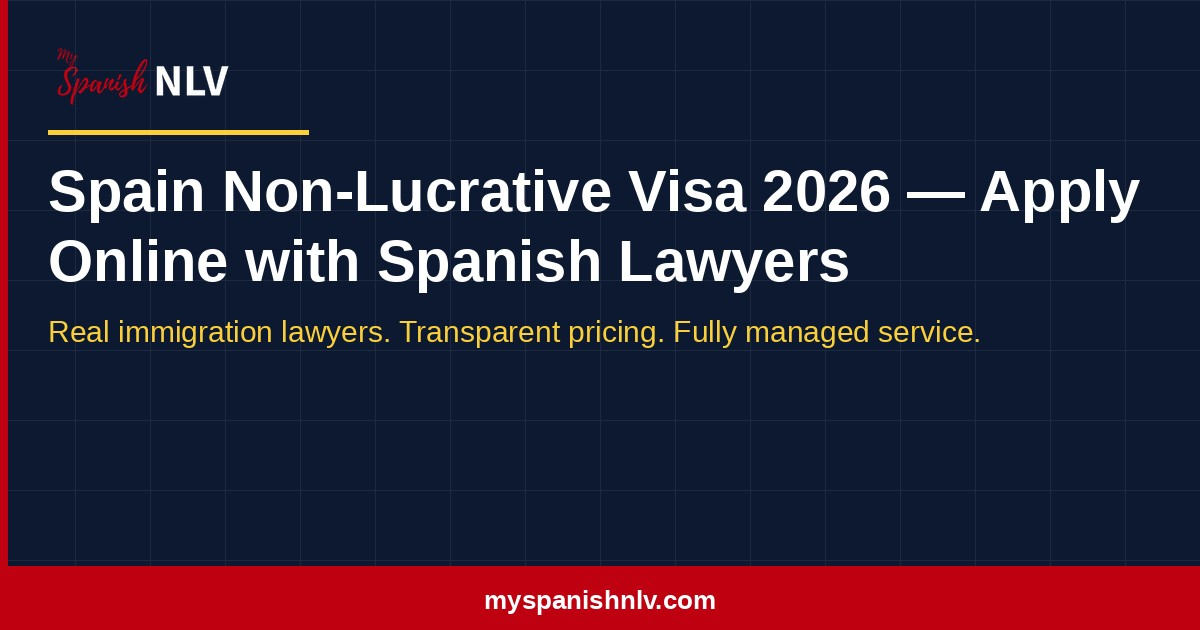
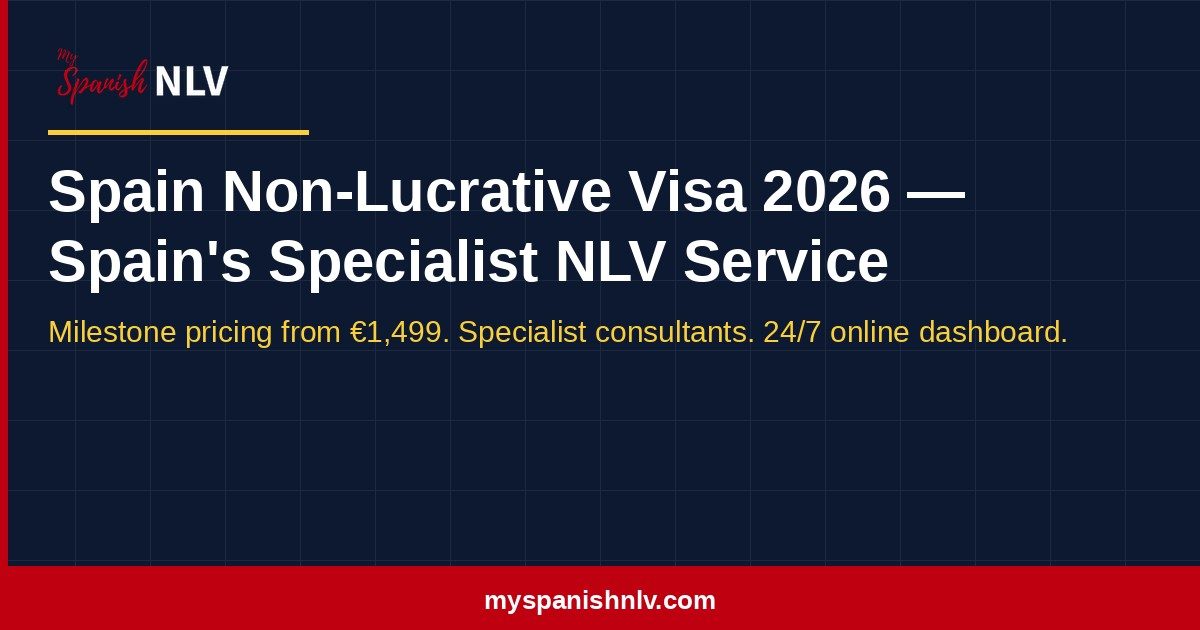
Remove 'Spanish lawyers' claims; fix pricing from €400 to €1499; update OG home image

Changed region(s): [[0.0308, 0.3619, 0.74, 0.4524], [0.0308, 0.5127, 0.8942, 0.573], [0.8017, 0.2714, 0.9558, 0.3619]]

diff --git a/index.html b/index.html
@@ -5,8 +5,8 @@
   <meta name="viewport" content="width=device-width, initial-scale=1.0" />
 
   <!-- PRIMARY META -->
-  <title>Spain Non-Lucrative Visa 2026 — Apply Online with Spanish Lawyers | My Spanish NLV</title>
-  <meta name="description" content="Apply for Spain's Non-Lucrative Visa — the visa for living in Spain without working. For retirees, families relocating on property equity, sabbaticals, and passive-income households. Spanish immigration lawyers, 24/7 online dashboard, staged pricing from €400." />
+  <title>Spain Non-Lucrative Visa 2026 — Spain's Specialist NLV Service | My Spanish NLV</title>
+  <meta name="description" content="Apply for Spain's Non-Lucrative Visa — the visa for living in Spain without working. For retirees, families relocating on property equity, sabbaticals, and passive-income households. NLV specialists, 24/7 online dashboard, milestone pricing from €1,499." />
   <meta name="keywords" content="non lucrative visa spain, nlv spain, spain retirement visa, spain residence visa, spain visa for retirees, spain non lucrative visa requirements, apply for non lucrative visa spain, non lucrative visa renewal" />
   <meta name="author" content="My Spanish NLV / Platinum Legal Spain" />
   <meta name="robots" content="index, follow, max-image-preview:large, max-snippet:-1" />
@@ -20,8 +20,8 @@
   <meta property="og:type" content="website" />
   <meta property="og:site_name" content="My Spanish NLV" />
   <meta property="og:url" content="https://myspanishnlv.com/" />
-  <meta property="og:title" content="Spain Non-Lucrative Visa 2026 — Apply Online with Spanish Lawyers" />
-  <meta property="og:description" content="Apply for Spain's Non-Lucrative Visa with real Spanish immigration lawyers, through a 24/7 online dashboard. Staged pricing from €400." />
+  <meta property="og:title" content="Spain Non-Lucrative Visa 2026 — Spain's Specialist NLV Service" />
+  <meta property="og:description" content="Apply for Spain's Non-Lucrative Visa with specialist immigration consultants, through a 24/7 online dashboard. Milestone pricing from €1,499." />
   <meta property="og:image" content="https://myspanishnlv.com/assets/og-home.jpg" />
   <meta property="og:image:width" content="1200" />
   <meta property="og:image:height" content="630" />
@@ -30,8 +30,8 @@
 
   <!-- TWITTER / X -->
   <meta name="twitter:card" content="summary_large_image" />
-  <meta name="twitter:title" content="Spain Non-Lucrative Visa 2026 — Apply Online with Spanish Lawyers" />
-  <meta name="twitter:description" content="Spain's NLV with real Spanish immigration lawyers, through a 24/7 dashboard. From €400." />
+  <meta name="twitter:title" content="Spain Non-Lucrative Visa 2026 — Spain's Specialist NLV Service" />
+  <meta name="twitter:description" content="Spain's NLV with specialist immigration consultants. 24/7 dashboard, milestone pricing from €1,499." />
   <meta name="twitter:image" content="https://myspanishnlv.com/assets/og-home.jpg" />
 
   <!-- ICONS + PWA -->
@@ -79,7 +79,7 @@
         "@id": "https://myspanishnlv.com/#website",
         "url": "https://myspanishnlv.com/",
         "name": "My Spanish NLV",
-        "description": "Spain Non-Lucrative Visa — apply online with Spanish immigration lawyers.",
+        "description": "Spain Non-Lucrative Visa — Spain's specialist NLV service.",
         "publisher": { "@id": "https://myspanishnlv.com/#organization" },
         "inLanguage": "en"
       },
@@ -87,10 +87,10 @@
         "@type": "WebPage",
         "@id": "https://myspanishnlv.com/#webpage",
         "url": "https://myspanishnlv.com/",
-        "name": "Spain Non-Lucrative Visa 2026 — Apply Online with Spanish Lawyers",
+        "name": "Spain Non-Lucrative Visa 2026 — Spain's Specialist NLV Service",
         "isPartOf": { "@id": "https://myspanishnlv.com/#website" },
         "about": { "@id": "https://myspanishnlv.com/#service" },
-        "description": "Apply for Spain's Non-Lucrative Visa with real Spanish immigration lawyers, through a 24/7 online dashboard.",
+        "description": "Apply for Spain's Non-Lucrative Visa with specialist immigration consultants, through a 24/7 online dashboard.",
         "inLanguage": "en"
       },
       {
@@ -1160,7 +1160,7 @@
   <section class="hero" aria-labelledby="hero-heading">
     <p class="hero-label">Spain Non-Lucrative Visa · 2026</p>
     <h1 id="hero-heading">Retire in Spain.<br /><em>Your visa, handled.</em></h1>
-    <p class="hero-sub">Spain's Non-Lucrative Visa lets non-EU nationals live in Spain without working — ideal for retirees, families cashing in property equity for a fresh start, sabbatical-takers, and anyone with pensions, savings, or passive income. We handle everything online, end-to-end, with Spanish immigration lawyers managing your case from start to finish.</p>
+    <p class="hero-sub">Spain's Non-Lucrative Visa lets non-EU nationals live in Spain without working — ideal for retirees, families cashing in property equity for a fresh start, sabbatical-takers, and anyone with pensions, savings, or passive income. We handle everything online, end-to-end, with NLV specialists managing your case from start to finish.</p>
     <div class="hero-actions">
       <a href="https://dashboard.platinumlegalspain.com/nlv" class="btn-primary" rel="noopener">Start Your Application →</a>
       <a href="#pricing" class="btn-secondary">See pricing</a>
@@ -1558,7 +1558,7 @@
       <!-- Column 1: Brand + contact -->
       <div class="footer-col">
         <div class="footer-logo"><img src="assets/logo-horizontal-light.png" alt="My Spanish NLV" /></div>
-        <p class="footer-tagline">Spain's Non-Lucrative Visa — apply online with real Spanish immigration lawyers at Platinum Legal Spain.</p>
+        <p class="footer-tagline">Spain's Non-Lucrative Visa — managed by NLV specialists at Platinum Legal Spain.</p>
         <p class="footer-email"><a href="mailto:[email redacted]">[email redacted]</a></p>
       </div>
       <!-- Column 2: Site links -->

diff --git a/book-a-call.html b/book-a-call.html
@@ -244,7 +244,7 @@
             <span class="trust-icon" style="flex-shrink:0;margin-top:.1rem;">✓</span>
             <div>
               <strong style="display:block;font-size:.97rem;">Answered by Platinum Legal Spain's immigration team</strong>
-              <span style="font-size:.88rem;color:rgba(255,255,255,.6);">Experienced Spanish immigration lawyers, not generalist advisers.</span>
+              <span style="font-size:.88rem;color:rgba(255,255,255,.6);">Experienced NLV specialists, not generalist advisers.</span>
             </div>
           </div>
         </div>